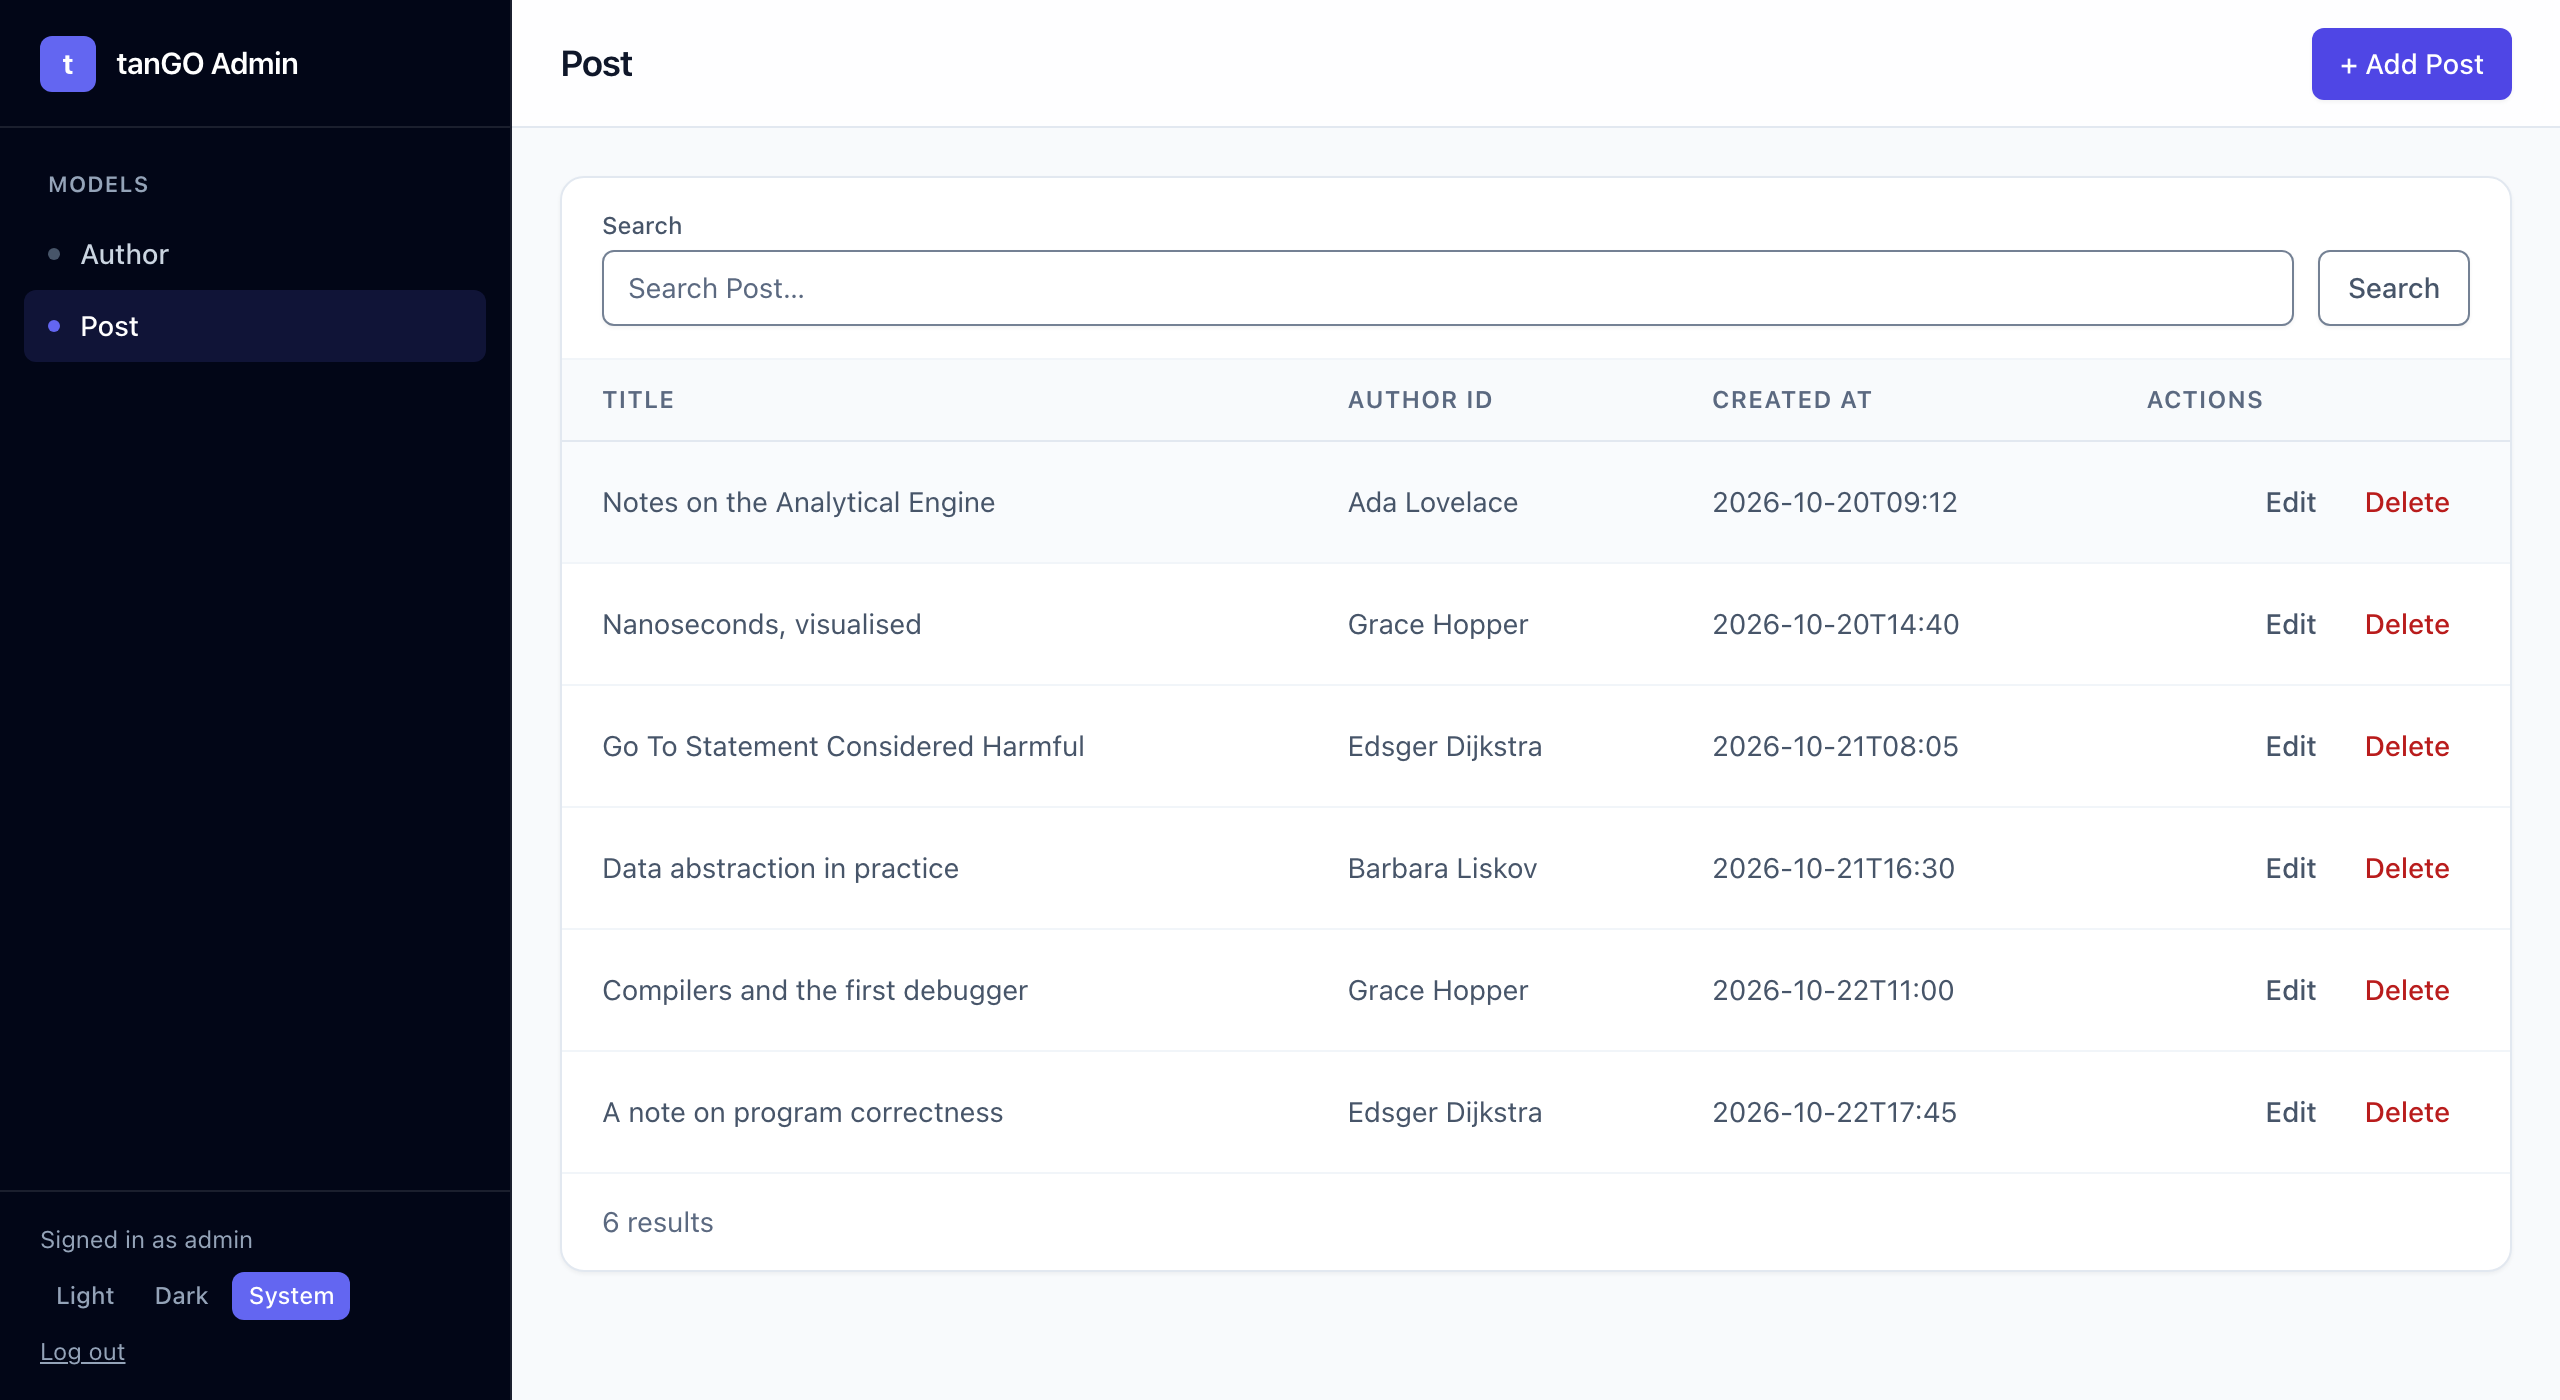
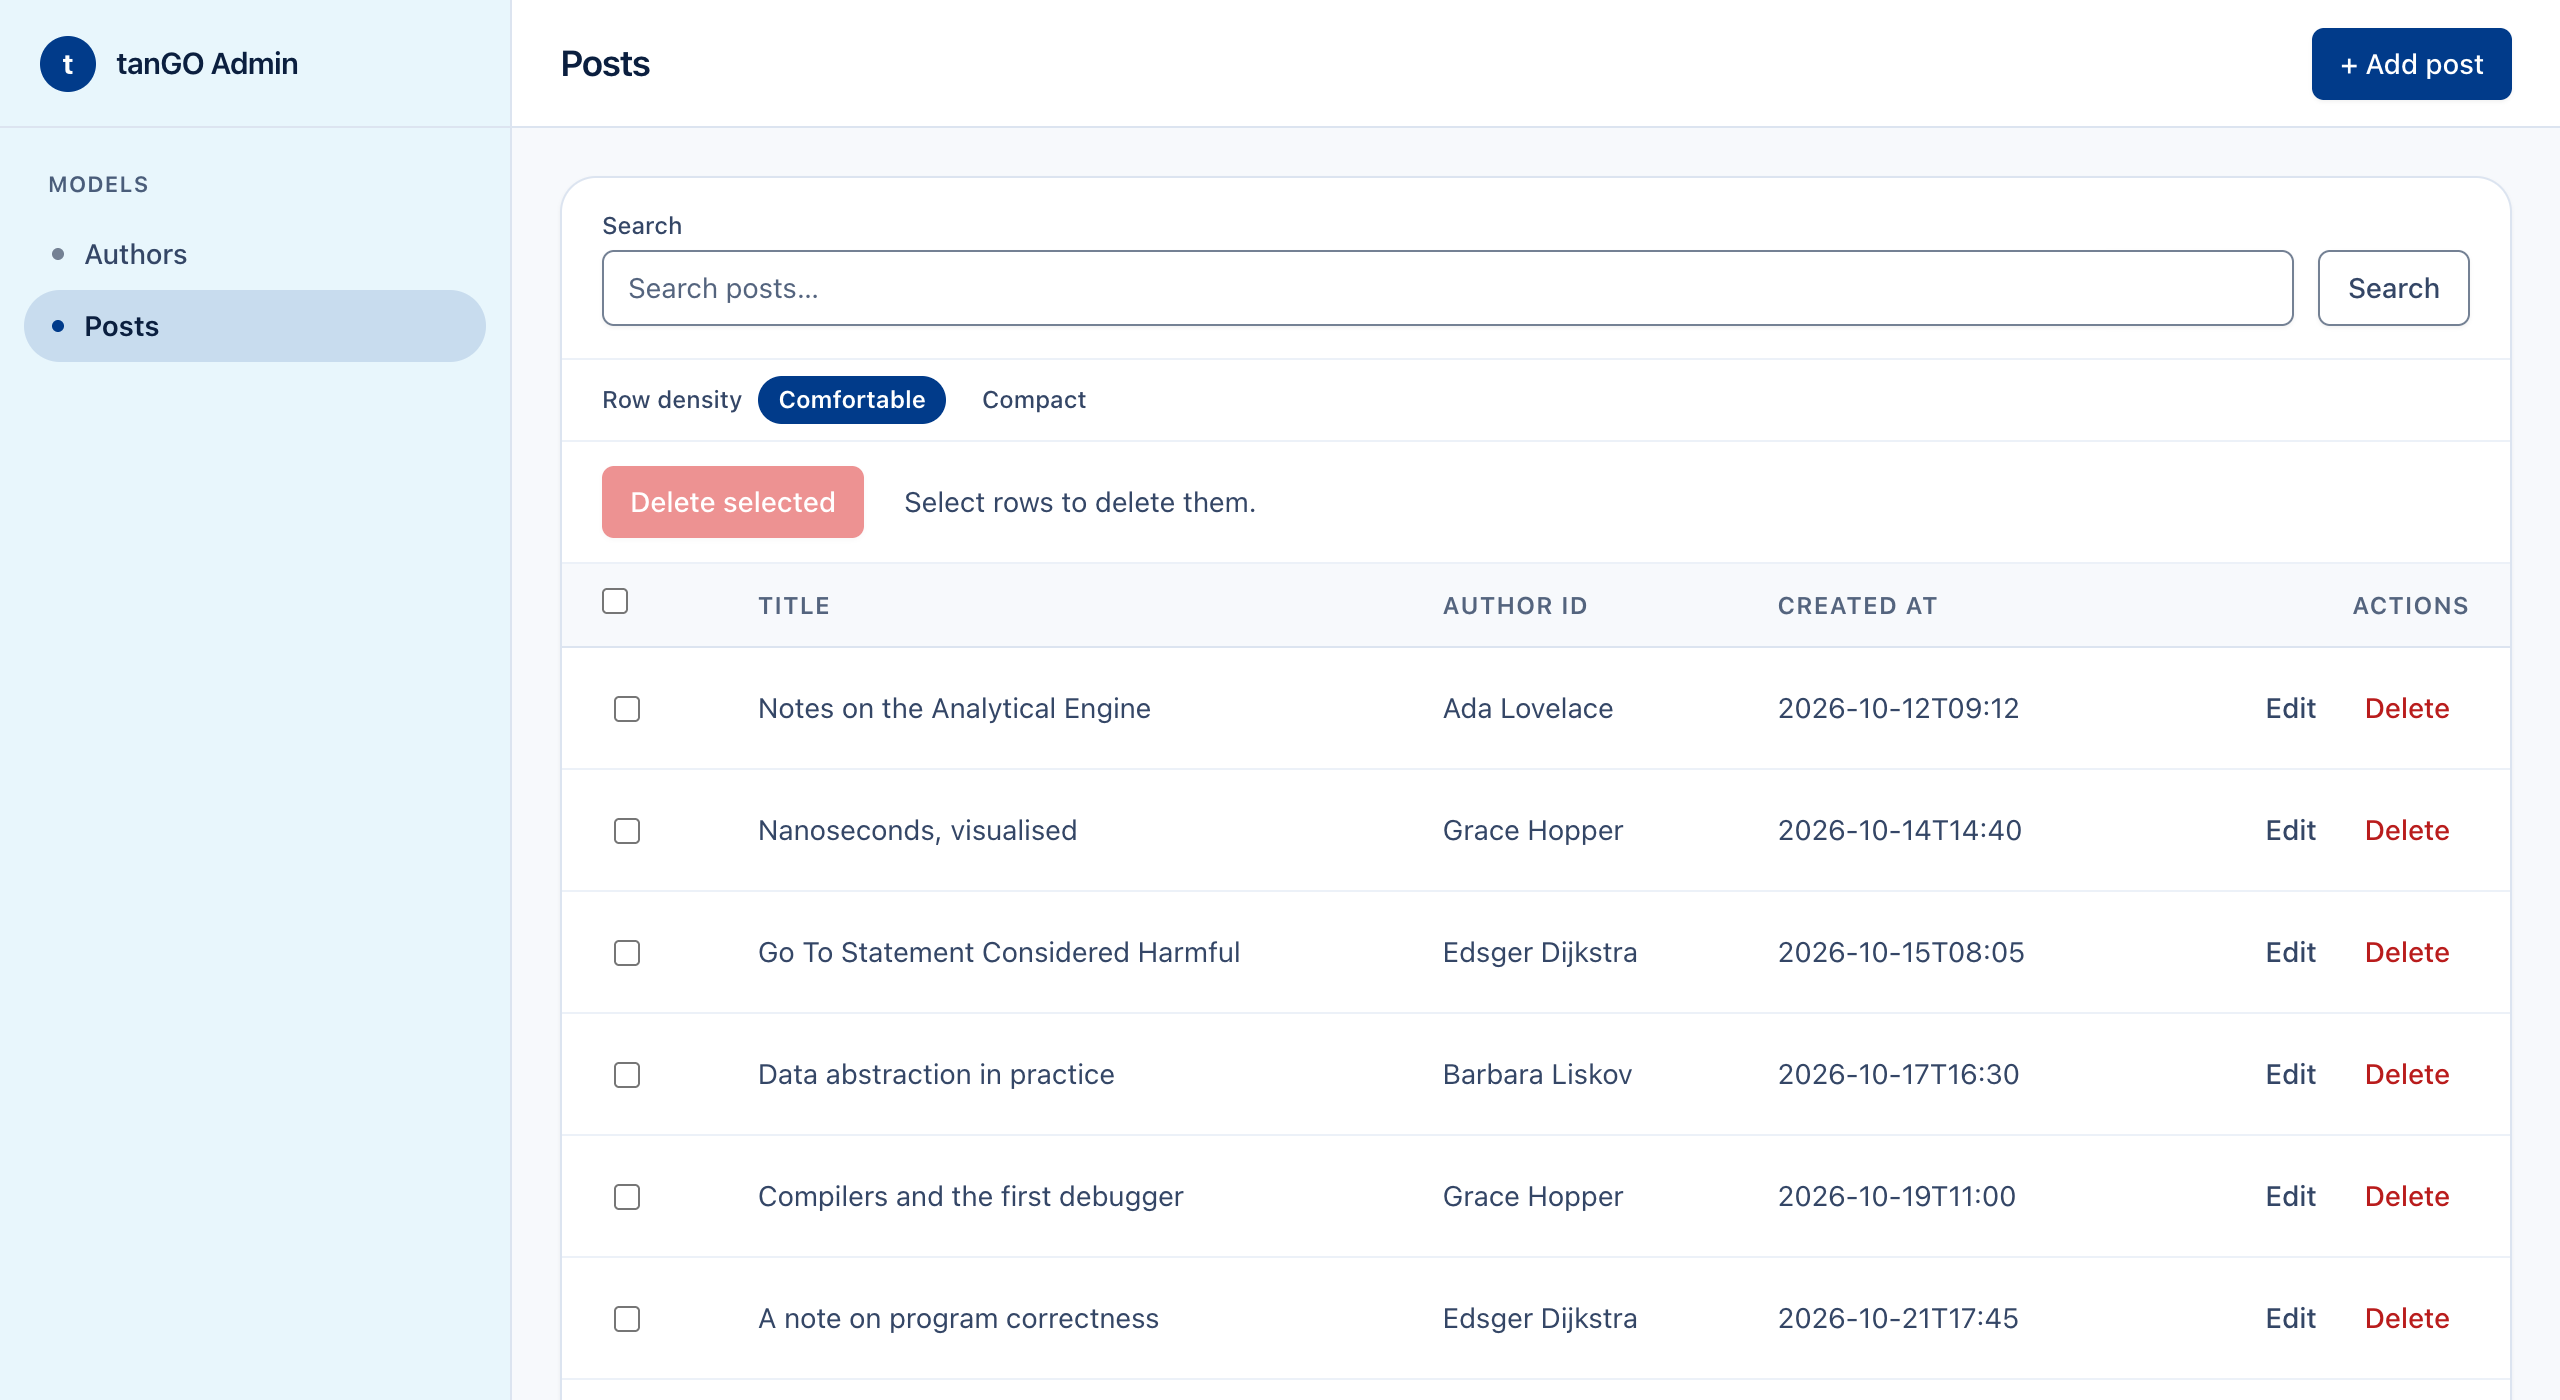
docs: refresh the admin screenshot in the light theme
Recipe: examples/api-with-admin run against a throwaway SQLite database
seeded with authors and posts; Chrome at 1280x700 with device scale
factor 2 (2560x1400), tango_admin_theme=light, post changelist.
Docs: README.md alt text describes the light-theme changelist.

The README screenshot still showed the pre-redesign admin. It now shows
the current light theme on the posts changelist.

diff --git a/README.md b/README.md
@@ -24,7 +24,7 @@ go run .
 
 To add tanGO to an existing module instead, run `go get github.com/angvp/tango`. The `tango` CLI is optional but recommended: it wraps `go run`/`go build` with a few conventions the framework expects your `main.go` to implement.
 
-![The tanGO admin listing posts, with search and per-row edit and delete](docs/images/admin-post-list.png)
+![The tanGO admin in the light theme, listing posts with a search box, row selection and a bulk-delete bar, and per-row edit and delete](docs/images/admin-post-list.png)
 
 *The server-rendered admin over two models, from [`examples/api-with-admin`](examples/api-with-admin).*
 
